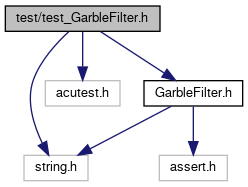
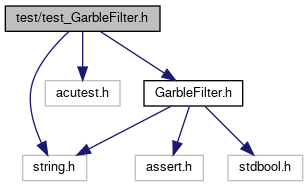
deploy: cbc5e12b773d4af357df24a688d0fe22cda6abd6

diff --git a/test__GarbleFilter_8h_source.html b/test__GarbleFilter_8h_source.html
@@ -111,13 +111,72 @@ $(function() {
 <div class="line"><a name="l00050"></a><span class="lineno">   50</span>&#160;    del_obs(<span class="charliteral">&#39;h&#39;</span>, &amp;oc);</div>
 <div class="line"><a name="l00051"></a><span class="lineno">   51</span>&#160;    TEST_CHECK(oc.obs[str2ascii(<span class="charliteral">&#39;h&#39;</span>)] == 0);</div>
 <div class="line"><a name="l00052"></a><span class="lineno">   52</span>&#160;    TEST_CHECK(oc.nexceed == 0);</div>
-<div class="line"><a name="l00053"></a><span class="lineno">   53</span>&#160;}</div>
-<div class="line"><a name="l00054"></a><span class="lineno">   54</span>&#160; </div>
-<div class="line"><a name="l00055"></a><span class="lineno">   55</span>&#160; </div>
-<div class="line"><a name="l00056"></a><span class="lineno">   56</span>&#160; </div>
+<div class="line"><a name="l00053"></a><span class="lineno">   53</span>&#160; </div>
+<div class="line"><a name="l00054"></a><span class="lineno">   54</span>&#160;    TEST_CHECK(oc.obs[str2ascii(<span class="charliteral">&#39;z&#39;</span>)] == 0);</div>
+<div class="line"><a name="l00055"></a><span class="lineno">   55</span>&#160;    TEST_CHECK(oc.nexceed == 0);</div>
+<div class="line"><a name="l00056"></a><span class="lineno">   56</span>&#160;}</div>
 <div class="line"><a name="l00057"></a><span class="lineno">   57</span>&#160; </div>
-<div class="line"><a name="l00058"></a><span class="lineno">   58</span>&#160;<span class="preprocessor">#endif</span></div>
-<div class="ttc" id="astructoccurText_html"><div class="ttname"><a href="structoccurText.html">occurText</a></div><div class="ttdef"><b>Definition:</b> GarbleFilter.h:8</div></div>
+<div class="line"><a name="l00058"></a><span class="lineno">   58</span>&#160;<span class="keywordtype">void</span> find_garble_text(<span class="keywordtype">void</span>){</div>
+<div class="line"><a name="l00059"></a><span class="lineno">   59</span>&#160;    <span class="keywordtype">char</span> text[2000] = <span class="stringliteral">&quot;DSARANDOMTEXTISSOHARD\0&quot;</span>;</div>
+<div class="line"><a name="l00060"></a><span class="lineno">   60</span>&#160;    <span class="keywordtype">char</span> garble[2000] = <span class="stringliteral">&quot;RTTX\0&quot;</span>;</div>
+<div class="line"><a name="l00061"></a><span class="lineno">   61</span>&#160;    <span class="keywordtype">int</span> head = -1;</div>
+<div class="line"><a name="l00062"></a><span class="lineno">   62</span>&#160;    <span class="keywordtype">int</span> tail = -1;</div>
+<div class="line"><a name="l00063"></a><span class="lineno">   63</span>&#160;    <span class="keywordtype">int</span> h2, t2,h3,t3;</div>
+<div class="line"><a name="l00064"></a><span class="lineno">   64</span>&#160;    <a class="code" href="structoccurText.html">occurText</a> oc2, oc3;</div>
+<div class="line"><a name="l00065"></a><span class="lineno">   65</span>&#160;    <a class="code" href="structoccurText.html">occurText</a> oc = init_occurText();</div>
+<div class="line"><a name="l00066"></a><span class="lineno">   66</span>&#160;    get_region_occurrence(garble, &amp;oc, 0, strlen(garble)-1);</div>
+<div class="line"><a name="l00067"></a><span class="lineno">   67</span>&#160; </div>
+<div class="line"><a name="l00068"></a><span class="lineno">   68</span>&#160; </div>
+<div class="line"><a name="l00069"></a><span class="lineno">   69</span>&#160;    <span class="keywordtype">bool</span> sat = next_garble_region(text, &amp;tail, &amp;head, strlen(text), &amp;oc);</div>
+<div class="line"><a name="l00070"></a><span class="lineno">   70</span>&#160; </div>
+<div class="line"><a name="l00071"></a><span class="lineno">   71</span>&#160;    <span class="comment">//Next garble text</span></div>
+<div class="line"><a name="l00072"></a><span class="lineno">   72</span>&#160;    h2 = head; t2 = tail; oc2 = oc;</div>
+<div class="line"><a name="l00073"></a><span class="lineno">   73</span>&#160;    <span class="keywordtype">bool</span> sat2 = next_garble_region(text, &amp;t2, &amp;h2, strlen(text), &amp;oc2);</div>
+<div class="line"><a name="l00074"></a><span class="lineno">   74</span>&#160; </div>
+<div class="line"><a name="l00075"></a><span class="lineno">   75</span>&#160;    <span class="comment">//No garble text</span></div>
+<div class="line"><a name="l00076"></a><span class="lineno">   76</span>&#160;    h3 = h2; t3 = t2; oc3 = oc2;</div>
+<div class="line"><a name="l00077"></a><span class="lineno">   77</span>&#160;    <span class="keywordtype">bool</span> sat3 = next_garble_region(text, &amp;t3, &amp;h3, strlen(text), &amp;oc3);</div>
+<div class="line"><a name="l00078"></a><span class="lineno">   78</span>&#160; </div>
+<div class="line"><a name="l00079"></a><span class="lineno">   79</span>&#160;    <span class="comment">//TEST</span></div>
+<div class="line"><a name="l00080"></a><span class="lineno">   80</span>&#160;    <span class="comment">//PIN</span></div>
+<div class="line"><a name="l00081"></a><span class="lineno">   81</span>&#160;    TEST_CHECK(head==12);</div>
+<div class="line"><a name="l00082"></a><span class="lineno">   82</span>&#160;    TEST_CHECK(tail==3);</div>
+<div class="line"><a name="l00083"></a><span class="lineno">   83</span>&#160;    TEST_CHECK(h2==19);</div>
+<div class="line"><a name="l00084"></a><span class="lineno">   84</span>&#160;    TEST_CHECK(t2==9);</div>
+<div class="line"><a name="l00085"></a><span class="lineno">   85</span>&#160;    TEST_CHECK(h3== strlen(text));</div>
+<div class="line"><a name="l00086"></a><span class="lineno">   86</span>&#160;    TEST_CHECK(t3 == t2+1);</div>
+<div class="line"><a name="l00087"></a><span class="lineno">   87</span>&#160;    TEST_CHECK(text[head]==<span class="charliteral">&#39;T&#39;</span>);</div>
+<div class="line"><a name="l00088"></a><span class="lineno">   88</span>&#160;    TEST_CHECK(text[tail]==<span class="charliteral">&#39;R&#39;</span>);</div>
+<div class="line"><a name="l00089"></a><span class="lineno">   89</span>&#160;    TEST_CHECK(text[h2]==<span class="charliteral">&#39;R&#39;</span>);</div>
+<div class="line"><a name="l00090"></a><span class="lineno">   90</span>&#160;    TEST_CHECK(text[t2]==<span class="charliteral">&#39;T&#39;</span>);</div>
+<div class="line"><a name="l00091"></a><span class="lineno">   91</span>&#160;    <span class="comment">//Observation</span></div>
+<div class="line"><a name="l00092"></a><span class="lineno">   92</span>&#160;    TEST_CHECK(oc.obs[str2ascii(<span class="charliteral">&#39;R&#39;</span>)]==1);</div>
+<div class="line"><a name="l00093"></a><span class="lineno">   93</span>&#160;    TEST_CHECK(oc.obs[str2ascii(<span class="charliteral">&#39;T&#39;</span>)]==2);</div>
+<div class="line"><a name="l00094"></a><span class="lineno">   94</span>&#160;    TEST_CHECK(oc.obs[str2ascii(<span class="charliteral">&#39;X&#39;</span>)]==1);</div>
+<div class="line"><a name="l00095"></a><span class="lineno">   95</span>&#160;    TEST_CHECK(oc2.obs[str2ascii(<span class="charliteral">&#39;R&#39;</span>)]==1);</div>
+<div class="line"><a name="l00096"></a><span class="lineno">   96</span>&#160;    TEST_CHECK(oc2.obs[str2ascii(<span class="charliteral">&#39;T&#39;</span>)]==2);</div>
+<div class="line"><a name="l00097"></a><span class="lineno">   97</span>&#160;    TEST_CHECK(oc2.obs[str2ascii(<span class="charliteral">&#39;X&#39;</span>)]==1);</div>
+<div class="line"><a name="l00098"></a><span class="lineno">   98</span>&#160;    <span class="comment">//Valid</span></div>
+<div class="line"><a name="l00099"></a><span class="lineno">   99</span>&#160;    TEST_CHECK(oc.nexceed == oc.noccur);</div>
+<div class="line"><a name="l00100"></a><span class="lineno">  100</span>&#160;    TEST_CHECK(oc2.nexceed == oc.noccur);</div>
+<div class="line"><a name="l00101"></a><span class="lineno">  101</span>&#160;    TEST_CHECK(oc3.nexceed &lt; oc.noccur);</div>
+<div class="line"><a name="l00102"></a><span class="lineno">  102</span>&#160;    TEST_CHECK(sat == <span class="keyword">true</span>);</div>
+<div class="line"><a name="l00103"></a><span class="lineno">  103</span>&#160;    TEST_CHECK(sat2==<span class="keyword">true</span>);</div>
+<div class="line"><a name="l00104"></a><span class="lineno">  104</span>&#160;    TEST_CHECK(sat3 == <span class="keyword">false</span>);</div>
+<div class="line"><a name="l00105"></a><span class="lineno">  105</span>&#160;    <span class="comment">//Occurrence</span></div>
+<div class="line"><a name="l00106"></a><span class="lineno">  106</span>&#160;    TEST_CHECK(oc.occur[str2ascii(<span class="charliteral">&#39;R&#39;</span>)] == 1);   </div>
+<div class="line"><a name="l00107"></a><span class="lineno">  107</span>&#160;    TEST_CHECK(oc.occur[str2ascii(<span class="charliteral">&#39;T&#39;</span>)] == 2);   </div>
+<div class="line"><a name="l00108"></a><span class="lineno">  108</span>&#160;    TEST_CHECK(oc.occur[str2ascii(<span class="charliteral">&#39;X&#39;</span>)] == 1);   </div>
+<div class="line"><a name="l00109"></a><span class="lineno">  109</span>&#160;    TEST_CHECK(oc.occur[str2ascii(<span class="charliteral">&#39;z&#39;</span>)] == 0);</div>
+<div class="line"><a name="l00110"></a><span class="lineno">  110</span>&#160;    TEST_CHECK(oc.noccur == 3);</div>
+<div class="line"><a name="l00111"></a><span class="lineno">  111</span>&#160; </div>
+<div class="line"><a name="l00112"></a><span class="lineno">  112</span>&#160;}</div>
+<div class="line"><a name="l00113"></a><span class="lineno">  113</span>&#160; </div>
+<div class="line"><a name="l00114"></a><span class="lineno">  114</span>&#160; </div>
+<div class="line"><a name="l00115"></a><span class="lineno">  115</span>&#160; </div>
+<div class="line"><a name="l00116"></a><span class="lineno">  116</span>&#160; </div>
+<div class="line"><a name="l00117"></a><span class="lineno">  117</span>&#160;<span class="preprocessor">#endif</span></div>
+<div class="ttc" id="astructoccurText_html"><div class="ttname"><a href="structoccurText.html">occurText</a></div><div class="ttdef"><b>Definition:</b> GarbleFilter.h:9</div></div>
 </div><!-- fragment --></div><!-- contents -->
 <!-- start footer part -->
 <hr class="footer"/><address class="footer"><small>

diff --git a/GarbleFilter_8h_source.html b/GarbleFilter_8h_source.html
@@ -75,30 +75,36 @@ $(function() {
 <div class="line"><a name="l00004"></a><span class="lineno">    4</span>&#160; </div>
 <div class="line"><a name="l00005"></a><span class="lineno">    5</span>&#160;<span class="preprocessor">#include &lt;string.h&gt;</span></div>
 <div class="line"><a name="l00006"></a><span class="lineno">    6</span>&#160;<span class="preprocessor">#include &lt;assert.h&gt;</span></div>
-<div class="line"><a name="l00007"></a><span class="lineno">    7</span>&#160; </div>
-<div class="line"><a name="l00008"></a><span class="lineno"><a class="line" href="structoccurText.html">    8</a></span>&#160;<span class="keyword">typedef</span> <span class="keyword">struct </span>{</div>
-<div class="line"><a name="l00009"></a><span class="lineno">    9</span>&#160;    <span class="keywordtype">int</span> occur[N_ASCII_ELEMENT];</div>
-<div class="line"><a name="l00010"></a><span class="lineno">   10</span>&#160;    <span class="keywordtype">int</span> obs[N_ASCII_ELEMENT];</div>
-<div class="line"><a name="l00011"></a><span class="lineno">   11</span>&#160;    <span class="keywordtype">int</span> nexceed;</div>
-<div class="line"><a name="l00012"></a><span class="lineno">   12</span>&#160;    <span class="keywordtype">int</span> noccur;</div>
-<div class="line"><a name="l00013"></a><span class="lineno">   13</span>&#160;} <a class="code" href="structoccurText.html">occurText</a>;</div>
-<div class="line"><a name="l00014"></a><span class="lineno">   14</span>&#160; </div>
-<div class="line"><a name="l00015"></a><span class="lineno">   15</span>&#160;<a class="code" href="structoccurText.html">occurText</a> init_occurText();</div>
-<div class="line"><a name="l00016"></a><span class="lineno">   16</span>&#160;<span class="keywordtype">void</span> add_obs(<span class="keywordtype">char</span>, <a class="code" href="structoccurText.html">occurText</a>*);</div>
-<div class="line"><a name="l00017"></a><span class="lineno">   17</span>&#160;<span class="keywordtype">void</span> del_obs(<span class="keywordtype">char</span>, <a class="code" href="structoccurText.html">occurText</a>*);</div>
-<div class="line"><a name="l00018"></a><span class="lineno">   18</span>&#160; </div>
-<div class="line"><a name="l00019"></a><span class="lineno">   19</span>&#160;<span class="comment">//Preprocessing: Garble Text</span></div>
-<div class="line"><a name="l00020"></a><span class="lineno">   20</span>&#160;<span class="keywordtype">int</span> str2ascii(<span class="keywordtype">char</span>);</div>
-<div class="line"><a name="l00021"></a><span class="lineno">   21</span>&#160;<span class="keywordtype">void</span> get_region_occurrence(<span class="keywordtype">char</span>*, <a class="code" href="structoccurText.html">occurText</a>*, <span class="keywordtype">int</span> str, <span class="keywordtype">int</span> end);</div>
-<div class="line"><a name="l00022"></a><span class="lineno">   22</span>&#160; </div>
+<div class="line"><a name="l00007"></a><span class="lineno">    7</span>&#160;<span class="preprocessor">#include &lt;stdbool.h&gt;</span></div>
+<div class="line"><a name="l00008"></a><span class="lineno">    8</span>&#160; </div>
+<div class="line"><a name="l00009"></a><span class="lineno"><a class="line" href="structoccurText.html">    9</a></span>&#160;<span class="keyword">typedef</span> <span class="keyword">struct </span>{</div>
+<div class="line"><a name="l00010"></a><span class="lineno">   10</span>&#160;    <span class="keywordtype">int</span> occur[N_ASCII_ELEMENT];</div>
+<div class="line"><a name="l00011"></a><span class="lineno">   11</span>&#160;    <span class="keywordtype">int</span> obs[N_ASCII_ELEMENT];</div>
+<div class="line"><a name="l00012"></a><span class="lineno">   12</span>&#160;    <span class="keywordtype">int</span> nexceed;</div>
+<div class="line"><a name="l00013"></a><span class="lineno">   13</span>&#160;    <span class="keywordtype">int</span> noccur;</div>
+<div class="line"><a name="l00014"></a><span class="lineno">   14</span>&#160;} <a class="code" href="structoccurText.html">occurText</a>;</div>
+<div class="line"><a name="l00015"></a><span class="lineno">   15</span>&#160; </div>
+<div class="line"><a name="l00016"></a><span class="lineno">   16</span>&#160;<a class="code" href="structoccurText.html">occurText</a> init_occurText();</div>
+<div class="line"><a name="l00017"></a><span class="lineno">   17</span>&#160;<span class="keywordtype">void</span> add_obs(<span class="keywordtype">char</span>, <a class="code" href="structoccurText.html">occurText</a>*);</div>
+<div class="line"><a name="l00018"></a><span class="lineno">   18</span>&#160;<span class="keywordtype">void</span> del_obs(<span class="keywordtype">char</span>, <a class="code" href="structoccurText.html">occurText</a>*);</div>
+<div class="line"><a name="l00019"></a><span class="lineno">   19</span>&#160;<span class="keywordtype">bool</span> satisfied_obs(<a class="code" href="structoccurText.html">occurText</a>);</div>
+<div class="line"><a name="l00020"></a><span class="lineno">   20</span>&#160; </div>
+<div class="line"><a name="l00021"></a><span class="lineno">   21</span>&#160;<span class="comment">//Preprocessing: Garble Text</span></div>
+<div class="line"><a name="l00022"></a><span class="lineno">   22</span>&#160;<span class="keywordtype">int</span> str2ascii(<span class="keywordtype">char</span>);</div>
 <div class="line"><a name="l00023"></a><span class="lineno">   23</span>&#160; </div>
-<div class="line"><a name="l00024"></a><span class="lineno">   24</span>&#160;<span class="keyword">static</span> <span class="keywordtype">int</span> interface(){</div>
-<div class="line"><a name="l00025"></a><span class="lineno">   25</span>&#160; </div>
-<div class="line"><a name="l00026"></a><span class="lineno">   26</span>&#160;}</div>
-<div class="line"><a name="l00027"></a><span class="lineno">   27</span>&#160; </div>
+<div class="line"><a name="l00027"></a><span class="lineno">   27</span>&#160;<span class="keywordtype">void</span> get_region_occurrence(<span class="keywordtype">char</span>*, <a class="code" href="structoccurText.html">occurText</a>*, <span class="keywordtype">int</span> str, <span class="keywordtype">int</span> end);</div>
 <div class="line"><a name="l00028"></a><span class="lineno">   28</span>&#160; </div>
-<div class="line"><a name="l00029"></a><span class="lineno">   29</span>&#160;<span class="preprocessor">#endif</span></div>
-<div class="ttc" id="astructoccurText_html"><div class="ttname"><a href="structoccurText.html">occurText</a></div><div class="ttdef"><b>Definition:</b> GarbleFilter.h:8</div></div>
+<div class="line"><a name="l00029"></a><span class="lineno">   29</span>&#160;<span class="comment">//Locate Garble Text</span></div>
+<div class="line"><a name="l00030"></a><span class="lineno">   30</span>&#160; </div>
+<div class="line"><a name="l00037"></a><span class="lineno">   37</span>&#160;<span class="keywordtype">bool</span> next_garble_region(<span class="keywordtype">char</span>* text, <span class="keywordtype">int</span>* tail, <span class="keywordtype">int</span>* head, <span class="keywordtype">int</span> textlen, <a class="code" href="structoccurText.html">occurText</a>*);</div>
+<div class="line"><a name="l00038"></a><span class="lineno">   38</span>&#160; </div>
+<div class="line"><a name="l00039"></a><span class="lineno">   39</span>&#160;<span class="keyword">static</span> <span class="keywordtype">int</span> interface(){</div>
+<div class="line"><a name="l00040"></a><span class="lineno">   40</span>&#160; </div>
+<div class="line"><a name="l00041"></a><span class="lineno">   41</span>&#160;}</div>
+<div class="line"><a name="l00042"></a><span class="lineno">   42</span>&#160; </div>
+<div class="line"><a name="l00043"></a><span class="lineno">   43</span>&#160; </div>
+<div class="line"><a name="l00044"></a><span class="lineno">   44</span>&#160;<span class="preprocessor">#endif</span></div>
+<div class="ttc" id="astructoccurText_html"><div class="ttname"><a href="structoccurText.html">occurText</a></div><div class="ttdef"><b>Definition:</b> GarbleFilter.h:9</div></div>
 </div><!-- fragment --></div><!-- contents -->
 <!-- start footer part -->
 <hr class="footer"/><address class="footer"><small>

diff --git a/test__GarbleFilter_8h.html b/test__GarbleFilter_8h.html
@@ -80,10 +80,11 @@ Include dependency graph for test_GarbleFilter.h:</div>
 <div class="center"><img src="test__GarbleFilter_8h__incl.png" border="0" usemap="#atest_2test__GarbleFilter_8h" alt=""/></div>
 <map name="atest_2test__GarbleFilter_8h" id="atest_2test__GarbleFilter_8h">
 <area shape="rect" title=" " alt="" coords="5,5,160,32"/>
-<area shape="rect" title=" " alt="" coords="24,155,88,181"/>
+<area shape="rect" title=" " alt="" coords="23,155,87,181"/>
 <area shape="rect" title=" " alt="" coords="45,80,120,107"/>
 <area shape="rect" href="GarbleFilter_8h_source.html" title=" " alt="" coords="144,80,243,107"/>
-<area shape="rect" title=" " alt="" coords="159,155,227,181"/>
+<area shape="rect" title=" " alt="" coords="135,155,203,181"/>
+<area shape="rect" title=" " alt="" coords="228,155,303,181"/>
 </map>
 </div>
 </div>
@@ -97,6 +98,9 @@ void&#160;</td><td class="memItemRight" valign="bottom"><b>test_ascii</b> (void)
 <tr class="memitem:a469295aa8f0d76ddc4a8fdbe0b344590"><td class="memItemLeft" align="right" valign="top"><a id="a469295aa8f0d76ddc4a8fdbe0b344590"></a>
 void&#160;</td><td class="memItemRight" valign="bottom"><b>text_occurrence</b> (void)</td></tr>
 <tr class="separator:a469295aa8f0d76ddc4a8fdbe0b344590"><td class="memSeparator" colspan="2">&#160;</td></tr>
+<tr class="memitem:a3df0907455fc0eefe25eedddda9516ee"><td class="memItemLeft" align="right" valign="top"><a id="a3df0907455fc0eefe25eedddda9516ee"></a>
+void&#160;</td><td class="memItemRight" valign="bottom"><b>find_garble_text</b> (void)</td></tr>
+<tr class="separator:a3df0907455fc0eefe25eedddda9516ee"><td class="memSeparator" colspan="2">&#160;</td></tr>
 </table>
 <a name="details" id="details"></a><h2 class="groupheader">Detailed Description</h2>
 <div class="textblock"><dl class="section author"><dt>Author</dt><dd>your name (<a href="#" onclick="location.href='mai'+'lto:'+'you'+'@d'+'oma'+'in'+'.co'+'m'; return false;">you@d<span style="display: none;">.nosp@m.</span>omai<span style="display: none;">.nosp@m.</span>n.com</a>) </dd></dl>
